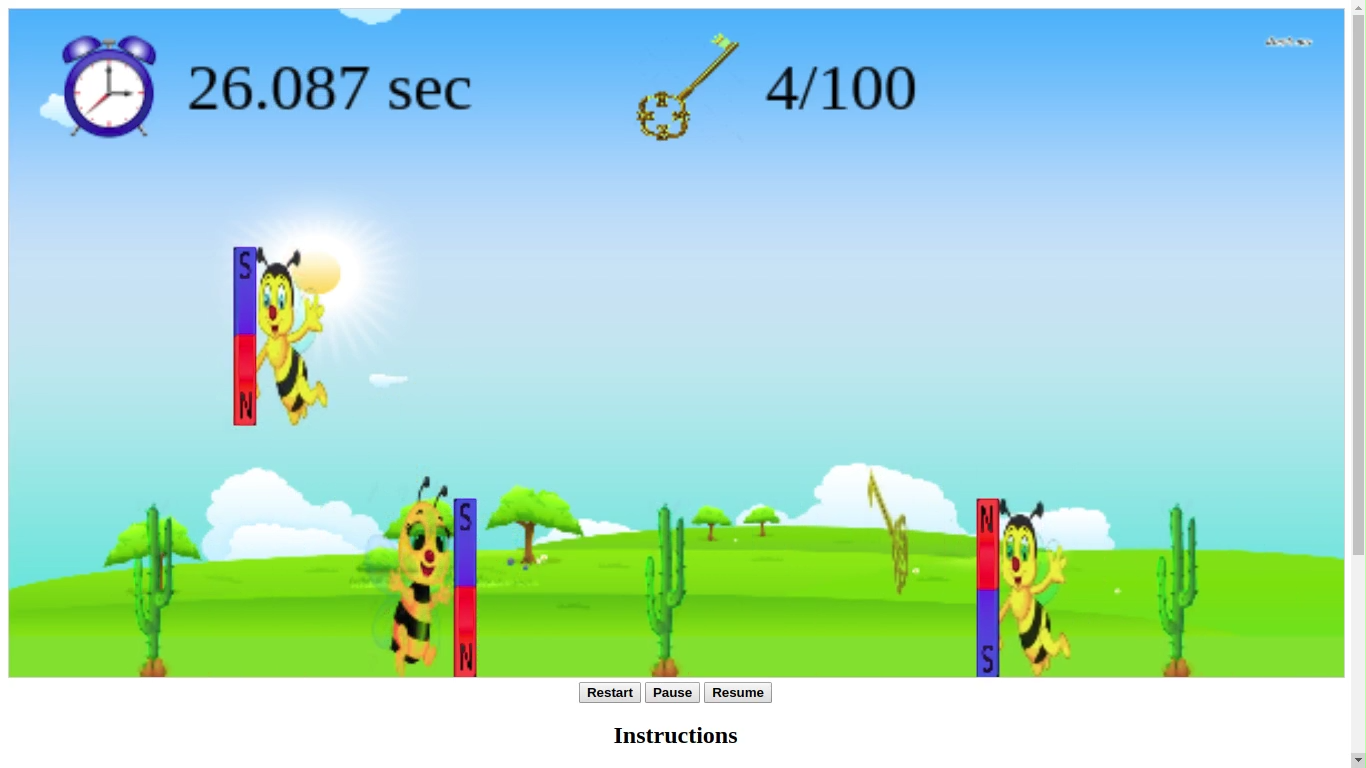
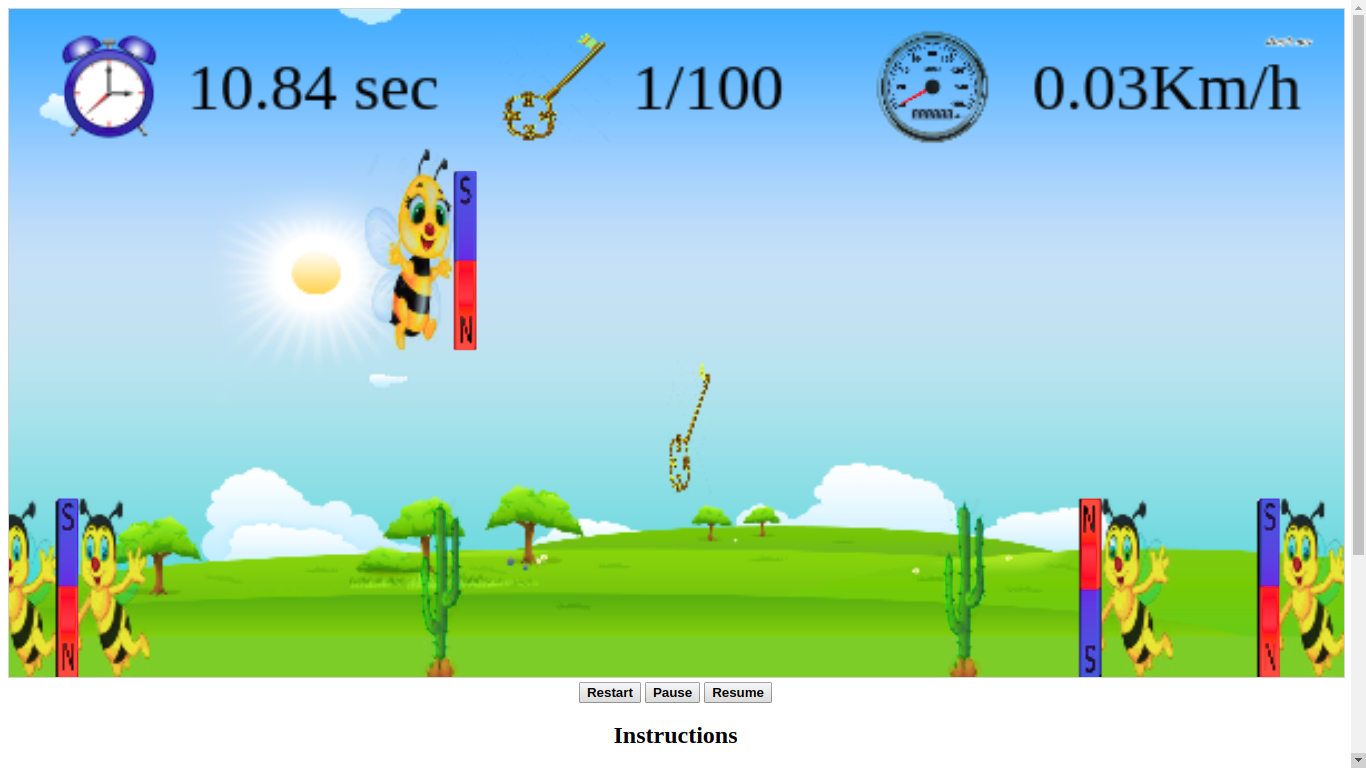
added speed functionality

diff --git a/Magnet_Game_final_version/playGame.html b/Magnet_Game_final_version/playGame.html
@@ -18,6 +18,7 @@
     <script>
         // start the game
         var gameOver = false;
+        var speed = 10;
         var requiredNumOfKeys = 100; //change the value as per your wish
         var keyInterval=400, obstaclesInterval=230, northMagnetInterval=490, southMagnetInterval=529;
         var startTime = new Date;
@@ -52,7 +53,8 @@
         var south_magnet_image = "images/south_magnet.png";
         var other_bees_image = "images/other_bees.png";
         var display_game_over_image = "images/displayGameOver.png";
-        var Congratulations_image = "images/congratulations.png";
+        var congratulations_image = "images/congratulations.png";
+        var speedometer_image = "images/speedometer.png";
 
         //Sounds
         var background_sound = "sounds/backgroundSound1.mp3";
@@ -68,11 +70,13 @@
         function startGame() {
             myGamePiece = new component(10, 80, myGamePiece_image, 200, 190, "image");
             playerBee = new component(40, 90, playerBee_image, 160, 190, "image");
-            myScore = new component("30px", "Consolas", "black", 340, 45, "text");
+            myScore = new component("30px", "Consolas", "black", 280, 45, "text");
             timeElapsed = new component("30px", "Consolas", "black", 80, 45, "text");
+            mySpeed = new component("30px", "Consolas", "black", 460, 45, "text");
             backgroundImage = new component(600, 300, background_image, 0, 0, "image");
             clockImage = new component(50, 50, clock_image, 20, 10, "image");
-            keyImage = new component(50, 50, key_image, 280, 10, "image");
+            keyImage = new component(50, 50, key_image, 220, 10, "image");
+            speedometerImage = new component(50, 50, speedometer_image, 390, 10, "image");
             backgroundSound = new sound(background_sound);
             pointSound = new sound(points_sound);
             cactusCollideSound = new sound(cactus_collide_sound);
@@ -231,6 +235,12 @@
 
         //updateGameArea
         function updateGameArea(){
+        	if(numOfKeys==0){
+        		speed = 0.01;
+        	}
+        	if(numOfKeys > 0){
+        		speed = numOfKeys*0.03;
+        	}
             if(timeTaken % timeTaken == 0 && !gameOver){
                 backgroundSound.play();
             }
@@ -244,7 +254,7 @@
 
             if(gameOver){
                 if(numOfKeys == requiredNumOfKeys){
-                    congratulationsOnCompletion = new component(300, 150, Congratulations_image, 150, 60, "image");
+                    congratulationsOnCompletion = new component(300, 150, congratulations_image, 150, 60, "image");
                     congratulationsOnCompletion.update();
                 }
                 else{
@@ -338,7 +348,7 @@
 	            if (everyinterval(keyInterval)&&(!everyinterval(obstaclesInterval))&&(!everyinterval(northMagnetInterval))&&(!everyinterval(southMagnetInterval))) {
 	                x = myGameArea.canvas.width-20;
 	                y = myGameArea.canvas.height - 160;
-	                keys.push(new component(20, 60, metal_key_image, x, Math.random()*100+y, "image"));
+	                keys.push(new component(20, 60, key_image, x, Math.random()*100+y, "image"));
 	            }
 
 	            //spread the obstacles
@@ -366,28 +376,28 @@
 	            
 	            //move the obstacles to the left
 	            for (i = 0; i < myObstacles.length; i += 1) {
-	                myObstacles[i].x -= 1;
+	                myObstacles[i].x -= 1+speed;
 	                myObstacles[i].update();
 	            }
 
 	            //move the keys to the left
 	            for (j = 0; j < keys.length; j += 1) {
-	                keys[j].x -= 1;
+	                keys[j].x -= 1+speed;
 	                keys[j].update();
 	            }
 
 	            //move the northMagnet to the left
 	            for (j = 0; j < northMagnet.length; j += 1) {
-	                northMagnet[j].x -= 1;
-	                otherBeesNorth[j].x -=1;
+	                northMagnet[j].x -= 1+speed;
+	                otherBeesNorth[j].x -=1+speed;
 	                otherBeesNorth[j].update();
 	                northMagnet[j].update();
 	            }
 
 	            //move the southMagnet to the left
 	            for (j = 0; j < southMagnet.length; j += 1) {
-	                southMagnet[j].x -= 1;
-	                otherBeesSouth[j].x -=1;
+	                southMagnet[j].x -= 1+speed;
+	                otherBeesSouth[j].x -=1+speed;
 	                otherBeesSouth[j].update();
 	                southMagnet[j].update();
 	            }
@@ -426,9 +436,12 @@
 	            timeTaken = (currentTime - startTime)/1000;
 	            myScore.text=numOfKeys+"/"+requiredNumOfKeys;
 	            timeElapsed.text=timeTaken+" sec";
+	            mySpeed.text=(speed).toFixed(2)+"Km/h";
 	            myScore.update();
+	            mySpeed.update();
 	            clockImage.update();
 	            keyImage.update();
+	            speedometerImage.update();
 	            timeElapsed.update();
 	            myGamePiece.newPos();
 	            playerBee.newPos();
